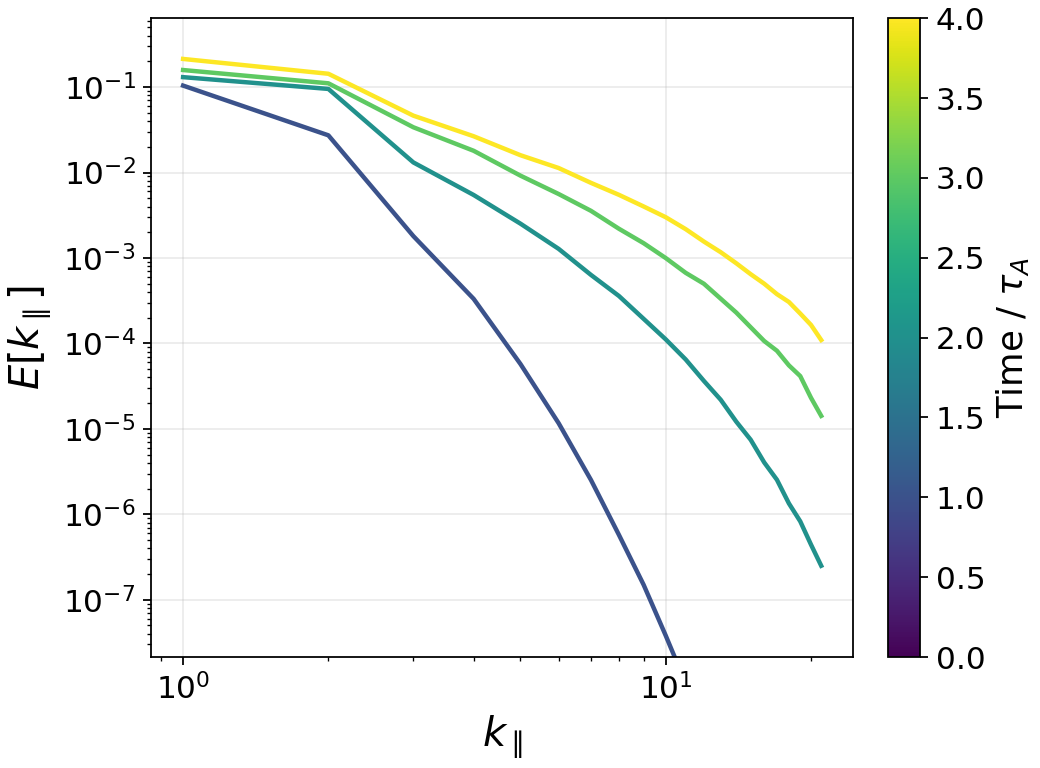
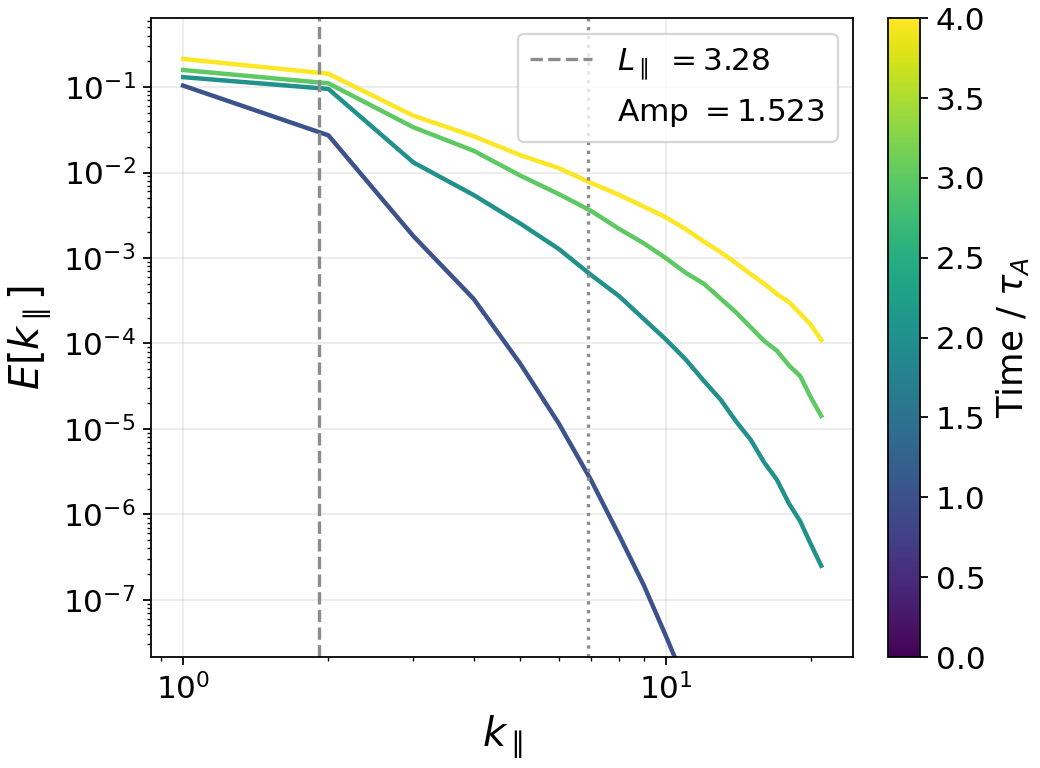
running theme for diagnostics

diff --git a/vis/plot_spectra.py b/vis/plot_spectra.py
@@ -102,9 +102,9 @@ def integral_scale(k: np.ndarray, spectrum: np.ndarray) -> tuple[float, float] |
     lout = 2.0 * np.pi /ave_k
     kmin= float(ave_k-5.0) # Think about changing bounds by mutliplying by a fraction or the bin_width
     kmax= float(ave_k+5.0) # bin_width = min(2.0 * np.pi / Lx, 2.0 * np.pi / Ly), would need config to get values from resolved toml file, see plot_linear.py
-    z_energy= float(np.sum(spectrum[(k>=kmin) & (k<=kmax)]))
-    Z_plus_amp= float(np.sqrt(4.0*z_energy))
-    return lout, Z_plus_amp, kmin, kmax
+    energy= float(np.sum(spectrum[(k>=kmin) & (k<=kmax)]))
+    amp= float(np.sqrt(4.0*energy))
+    return lout, amp, kmin, kmax
 
 
 def main(argv: list[str] | None = None) -> list[Path]:
@@ -145,20 +145,20 @@ def main(argv: list[str] | None = None) -> list[Path]:
             ax.loglog(kperp[mask], values[mask], color=cmap(time_norm(time_value)), lw=2.5)
 
         Lperp= None
-        if quantity=="z_plus":
+        if quantity=="z_plus" or quantity=="b_perp" or quantity=="u_perp":
            if args.Lperp_time is not None:
               outerscale_time= min(spectra[quantity], key=lambda t: abs(t - args.Lperp_time))
            else:outerscale_time= latest_time 
            kperpen, energy_perpen= spectra[quantity][outerscale_time]
-           Lperp, z_plus_amp, Kmin, Kmax = integral_scale(kperpen,energy_perpen)
+           Lperp, Amp, Kmin, Kmax = integral_scale(kperpen,energy_perpen)
            if Lperp is not None:
               ax.axvline(2.0 *np.pi/Lperp, color="0.55", ls="--", lw=2, label=rf"Lperp $={Lperp:.3f}$")
            if Kmin is not None:
               ax.axvline(Kmin, color="0.55", ls=":", lw=1.5)
            if Kmax is not None:
                ax.axvline(Kmax, color="0.55", ls=":", lw=1.5)
-           if z_plus_amp is not None: 
-              ax.plot([], [], ' ', label=rf"z_plus_amp $={z_plus_amp:.3f}$") 
+           if Amp is not None: 
+              ax.plot([], [], ' ', label=rf"Amp $={Amp:.3f}$") 
 
         guide_line = _guide_line(*latest_curve)
         if guide_line is not None:
@@ -177,7 +177,7 @@ def main(argv: list[str] | None = None) -> list[Path]:
         ax.grid(True, alpha=0.25)
         if args.y_span_decades > 0.0 and ymax > 0.0:
             ax.set_ylim(ymax / (10.0 ** args.y_span_decades), ymax)
-        if guide_line or Lperp is not None or z_plus_amp is not None or Kmin is not None or Kmax is not None:
+        if guide_line or Lperp is not None or Amp is not None or Kmin is not None or Kmax is not None:
             ax.legend(fontsize=14)
 
         output_path = output_dir / f"{quantity}.png"

diff --git a/vis/plot_spectra_prl.py b/vis/plot_spectra_prl.py
@@ -167,21 +167,21 @@ def main(argv: list[str] | None = None) -> list[Path]:
             ax.plot(kprl[mask], values[mask], color=cmap(time_norm(time_value)), lw=2)
 
         Lpar= None
-        if quantity=="z_plus":
+        if quantity=="z_plus" or quantity=="b_perp" or quantity=="u_perp":
             latest_time = max(spectra[quantity])
             if args.Lpar_time is not None:
                 outerscale_time= min(spectra[quantity], key=lambda t: abs(t - args.Lpar_time))
             else:outerscale_time= latest_time 
             kpara, energy_para= spectra[quantity][outerscale_time]
-            Lpar, z_parallel_amp, Kmin, Kmax = integral_scale(kpara,energy_para)
+            Lpar, Amp, Kmin, Kmax = integral_scale(kpara,energy_para)
             if Lpar is not None:
                 ax.axvline(2.0 * np.pi / Lpar, color="0.55", ls="--", lw=1.5, label=rf"$L_{{\parallel}}$ $={Lpar:.2f}$")
             if Kmin is not None:
                 ax.axvline(Kmin, color="0.55", ls=":", lw=1.5)
             if Kmax is not None:
                 ax.axvline(Kmax, color="0.55", ls=":", lw=1.5)
-            if z_parallel_amp is not None:
-                ax.plot([], [], ' ', label=rf"z_parallel_amp $={z_parallel_amp:.3f}$")
+            if Amp is not None:
+                ax.plot([], [], ' ', label=rf"Amp $={Amp:.3f}$")
 
         earliest_time = min(spectra[quantity])
         _report_initial_modes(quantity, *spectra[quantity][earliest_time], earliest_time)

diff --git a/vis/plot_spectra_slope.py b/vis/plot_spectra_slope.py
@@ -175,21 +175,21 @@ def main(argv: list[str] | None = None) -> list[Path]:
             ax.loglog(kperp[mask], values[mask], color=cmap(time_norm(time_value)), lw=2.5)
 
         Lperp= None
-        if quantity=="z_plus":
+        if quantity=="z_plus" or quantity=="b_perp" or quantity=="u_perp":
             latest_time = max(spectra[quantity])
             if args.Lperp_time is not None:
                  outerscale_time= min(spectra[quantity], key=lambda t: abs(t - args.Lperp_time))
             else:outerscale_time= latest_time 
             kperpen, energy_perpen= spectra[quantity][outerscale_time]
-            Lperp, z_plus_amp, Kmin, Kmax = integral_scale(kperpen,energy_perpen)
+            Lperp, Amp, Kmin, Kmax = integral_scale(kperpen,energy_perpen)
             if Lperp is not None:
                 ax.axvline(2.0 * np.pi / Lperp, color="0.55", ls="--", lw=1.5, label=rf"$L_{{\perp}}$ $={Lperp:.2f}$")
 #           if Kmin is not None:
 #                ax.axvline(Kmin, color="0.55", ls=":", lw=1.5)
 #           if Kmax is not None:
 #                ax.axvline(Kmax, color="0.55", ls=":", lw=1.5)
-            if z_plus_amp is not None: 
-                ax.plot([], [], ' ', label=rf"$Z^{{+}}$ amp $={z_plus_amp:.2f}$") 
+            if Amp is not None: 
+                ax.plot([], [], ' ', label=rf"Amp $={Amp:.2f}$")   #$Z^{{+}}$ 
 
         quantity_times = sorted(spectra[quantity])
         if args.fit_time is None:
